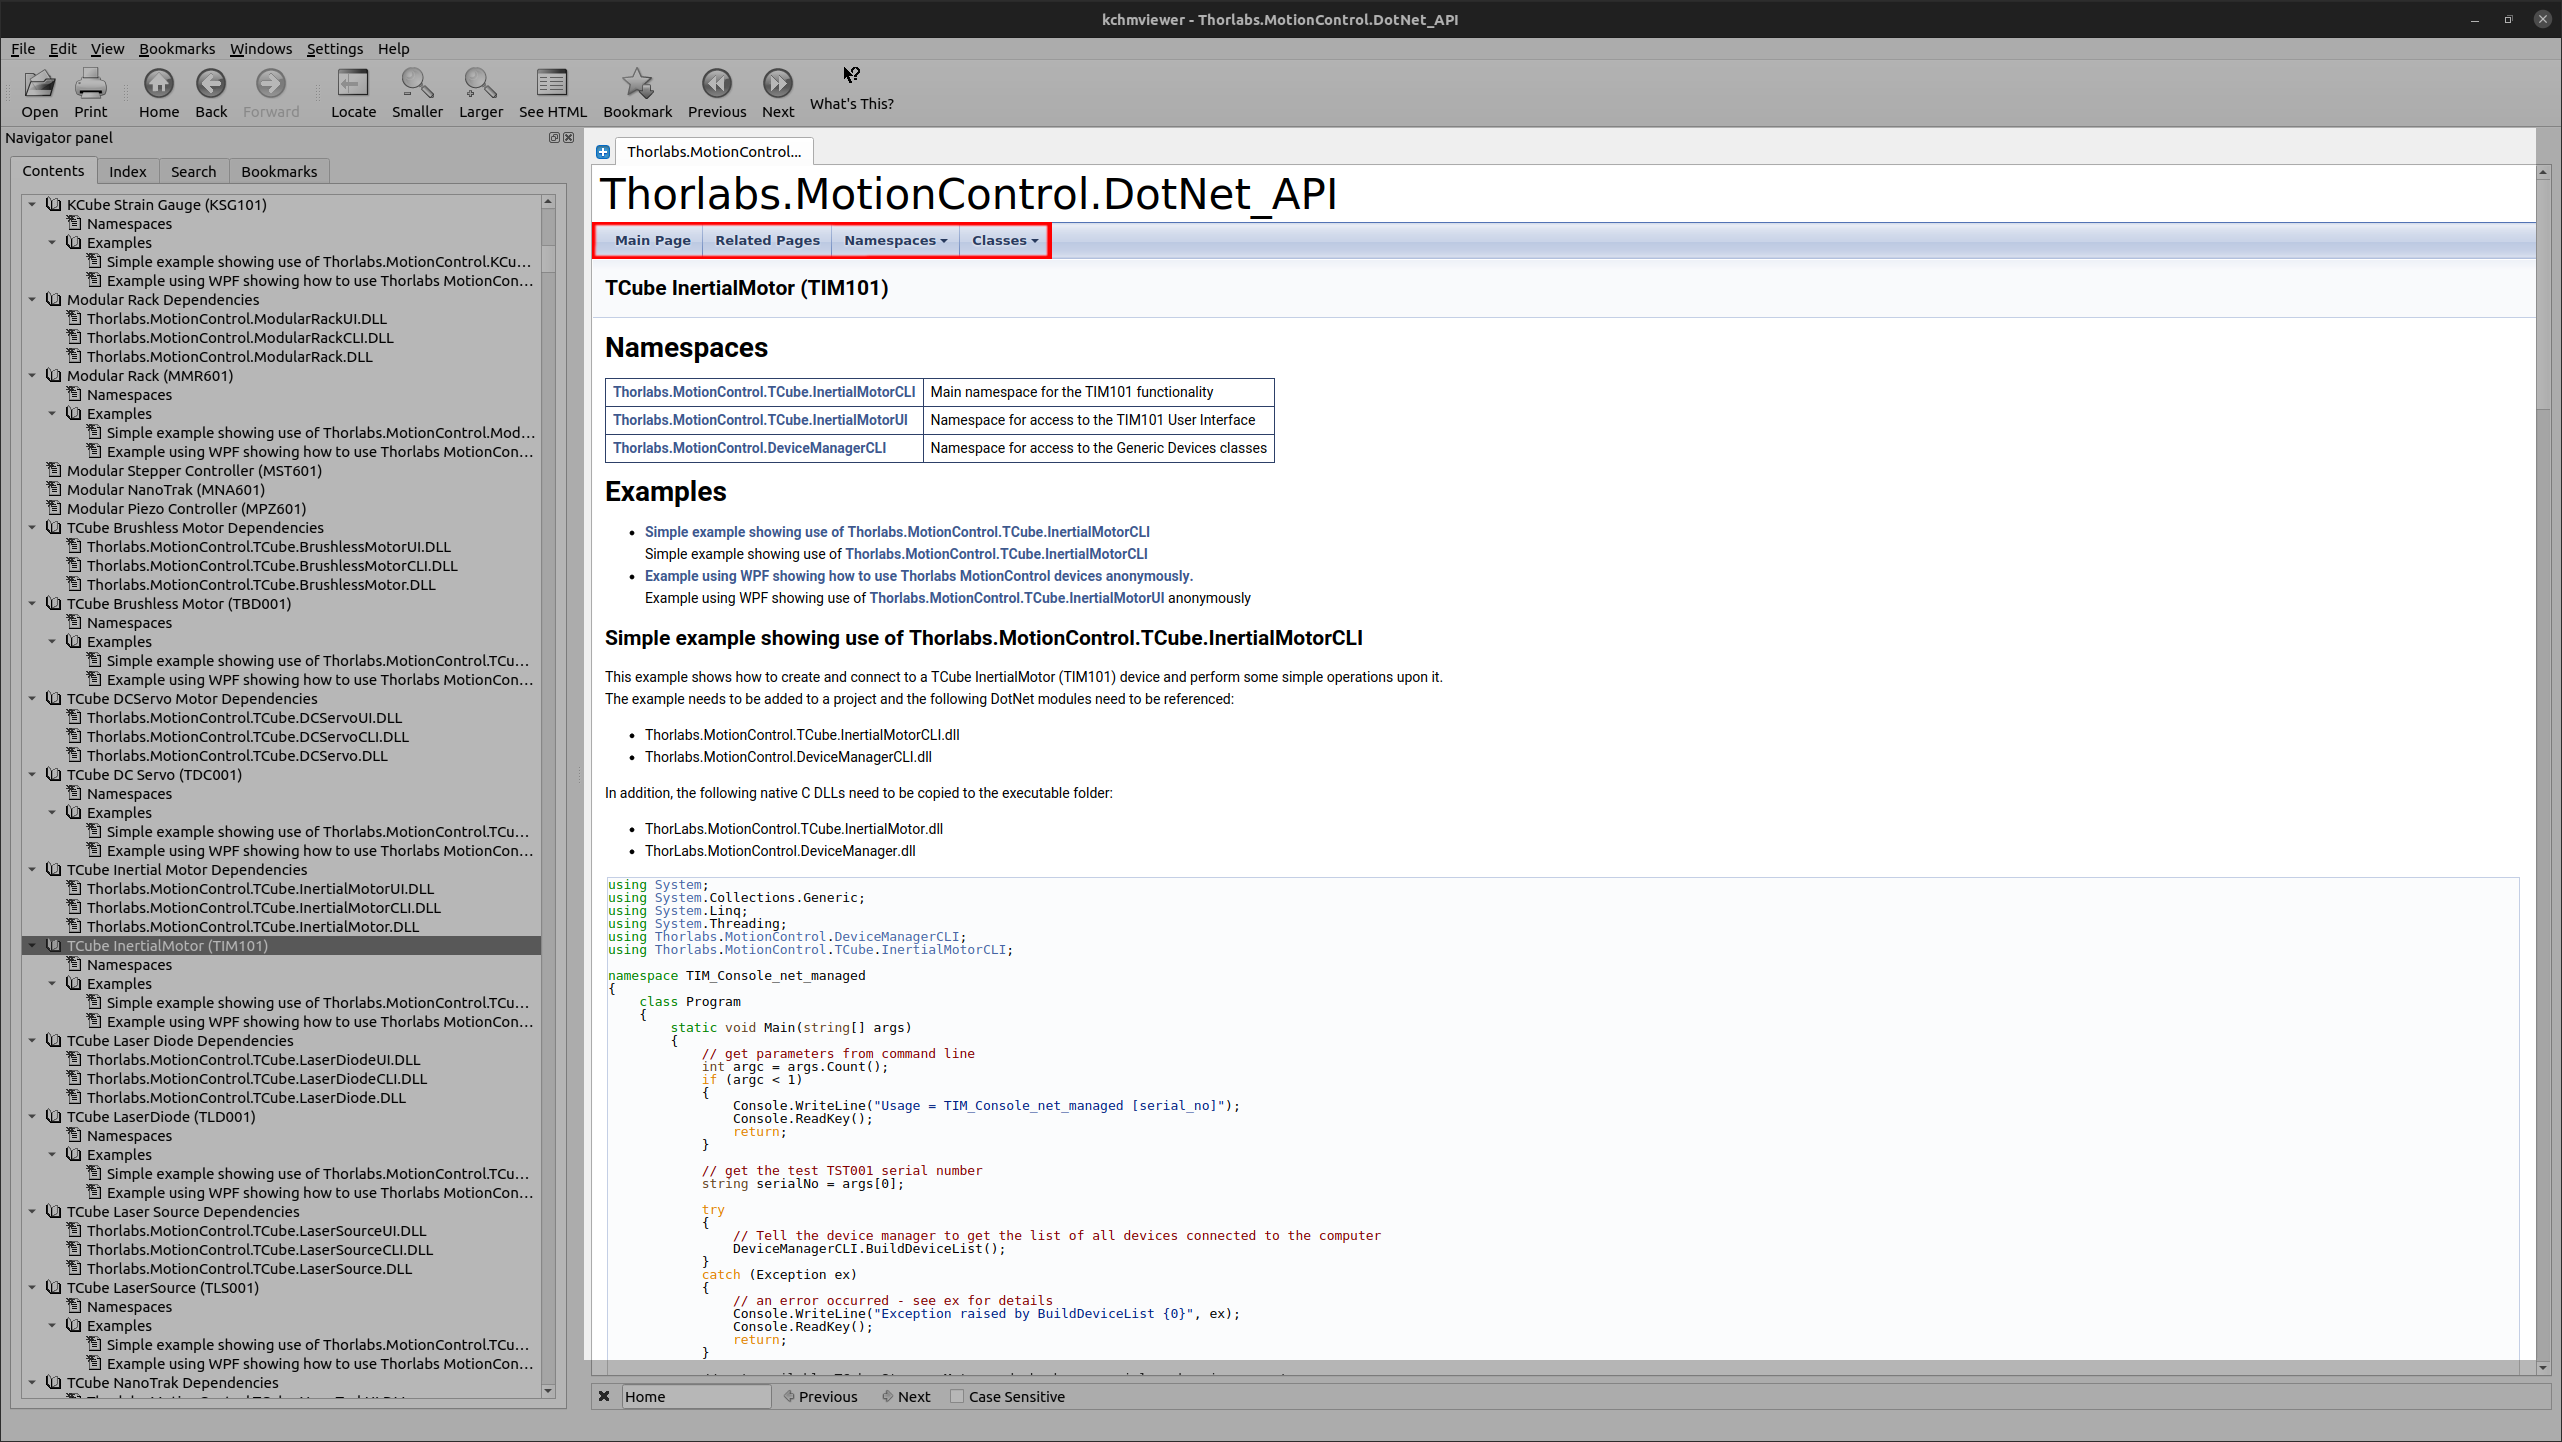
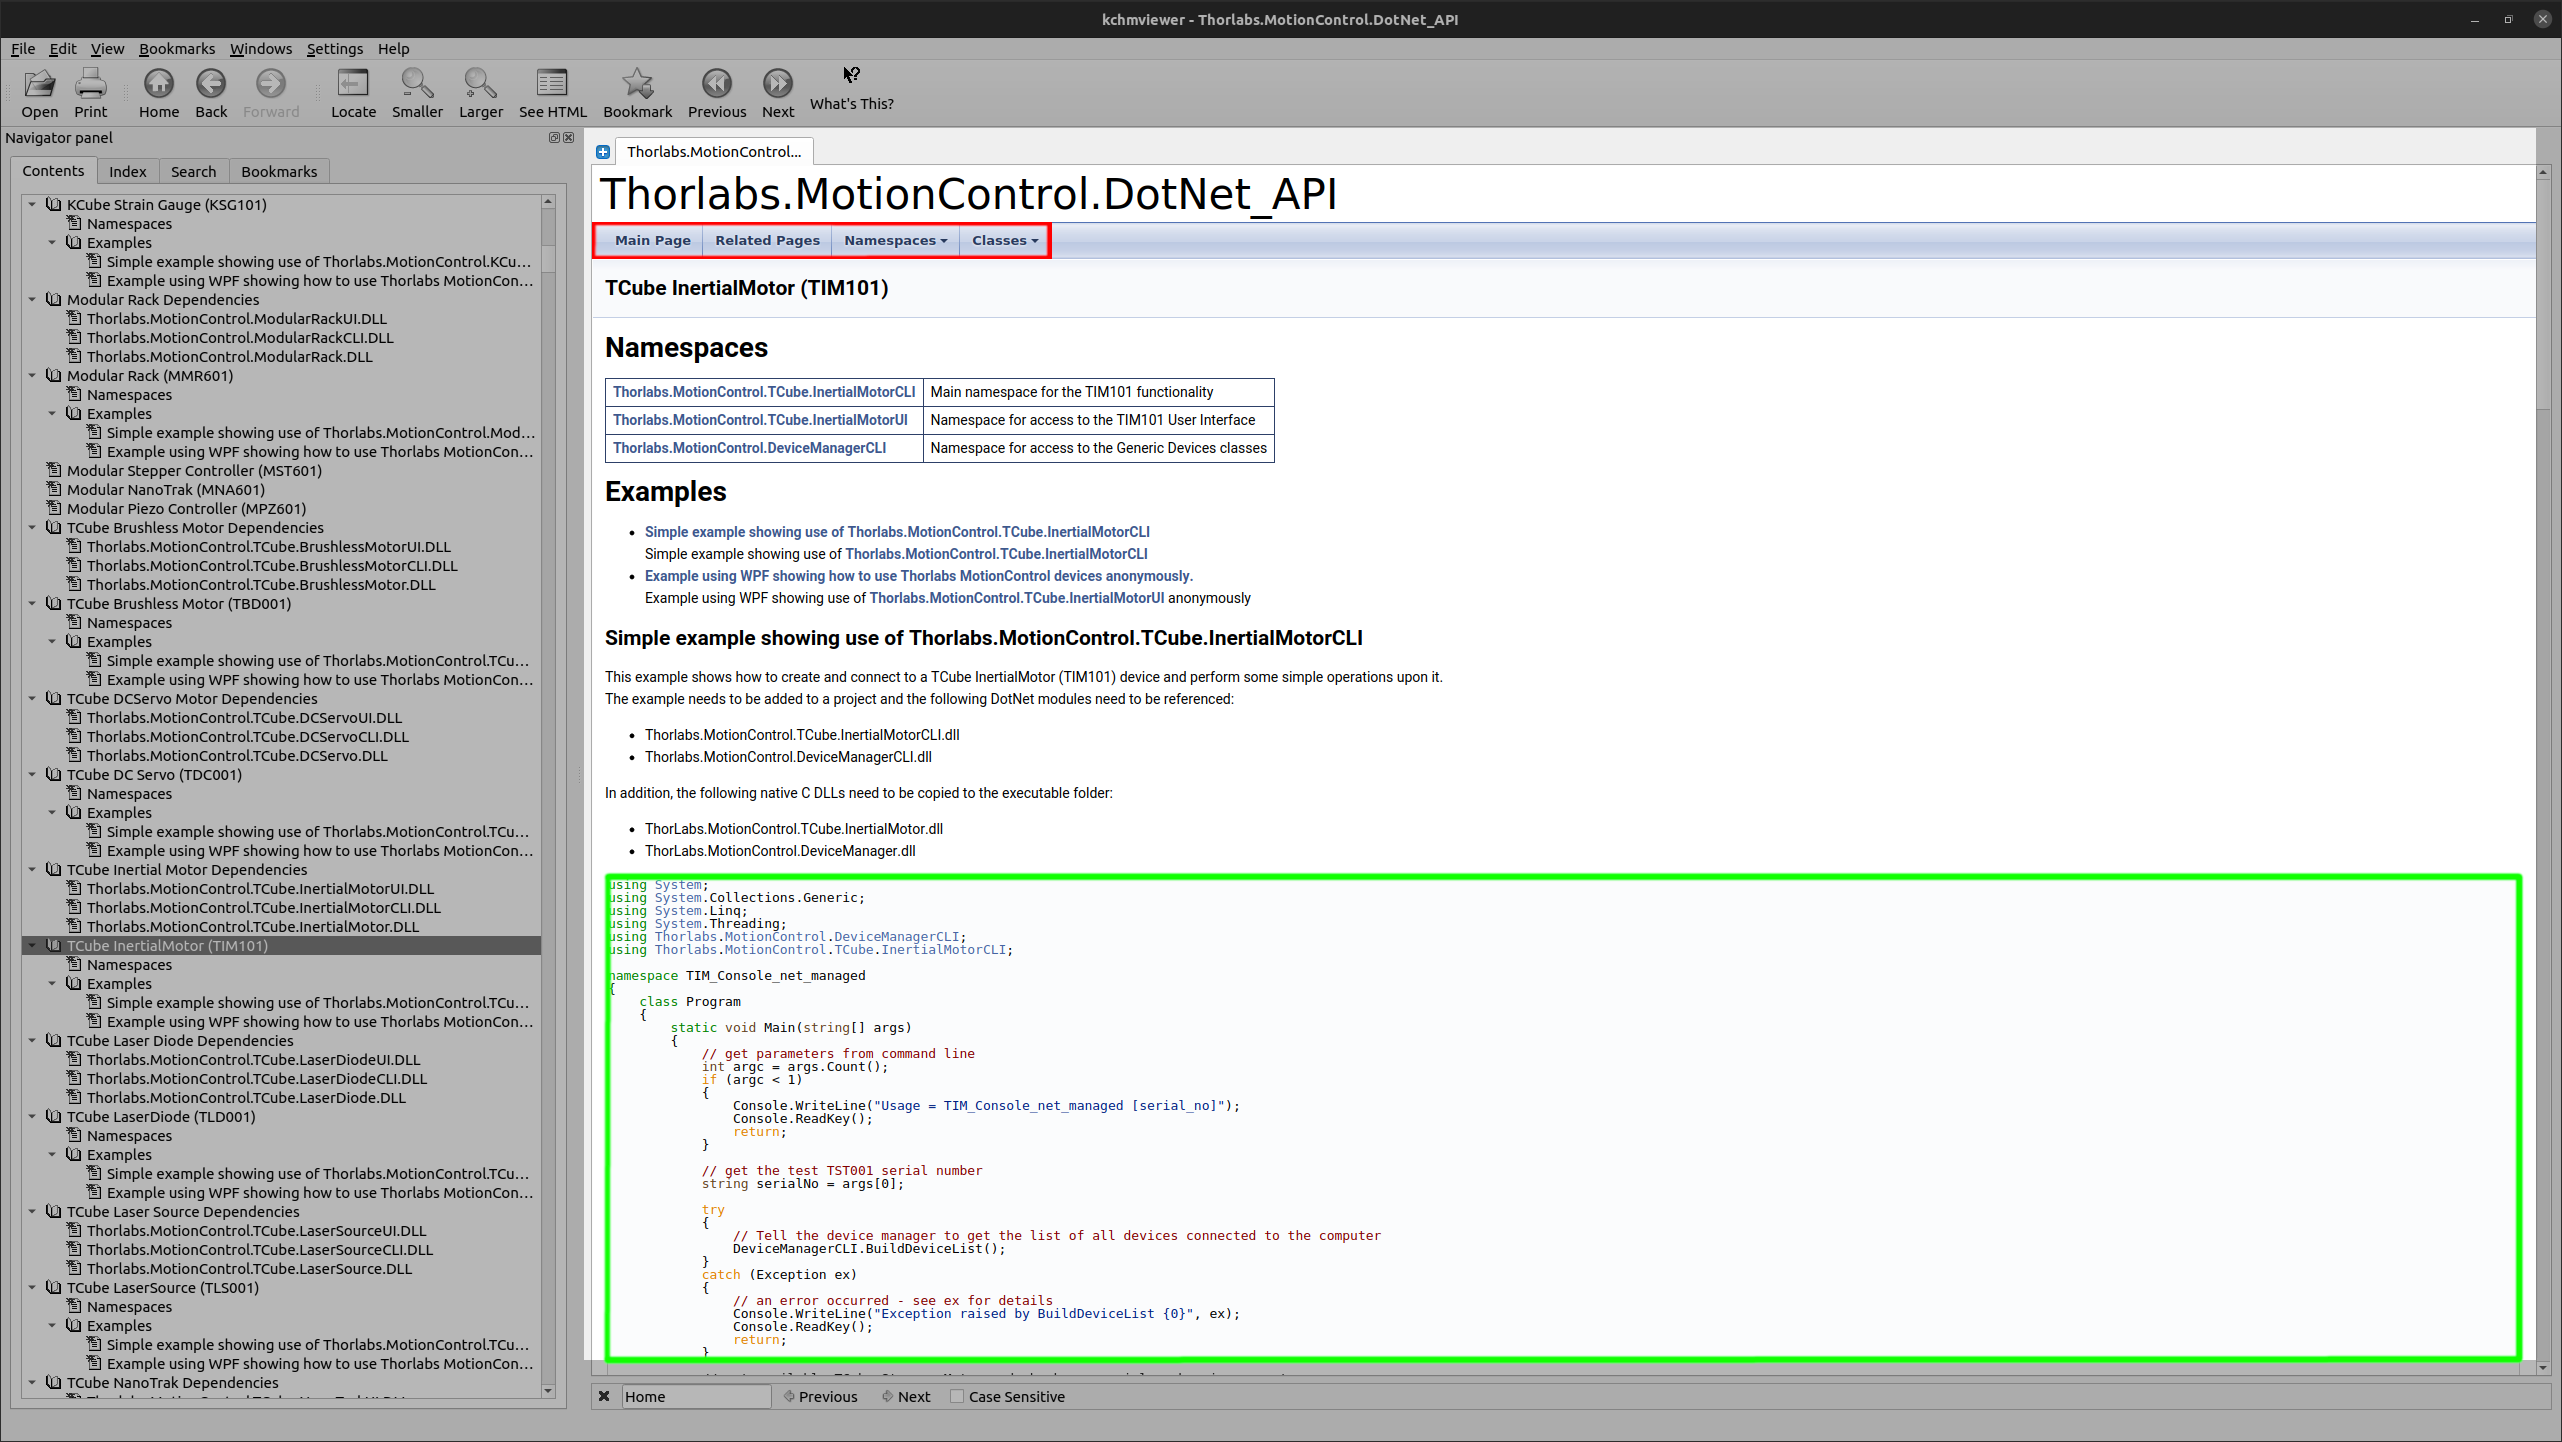
Doc

Changed region(s): [[0.2186, 0.5929, 0.9992, 0.9674], [0.2186, 0.6553, 0.2498, 0.7178]]

diff --git a/piezo.py b/piezo.py
@@ -33,8 +33,8 @@ clr.AddReference("Thorlabs.MotionControl.TCube.DCServoCLI")
 clr.AddReference("Thorlabs.MotionControl.IntegratedStepperMotorsCLI")
 clr.AddReference("Thorlabs.MotionControl.Controls")
 
-from System import String
-from System import Decimal
+from System import String, Decimal
+# from System import Decimal
 import System.Collections
 from System.Collections import *
 # Generic device manager
@@ -183,13 +183,13 @@ class K10CR1:
         :param float pos: Position
         :param float timeout: Timeout in ms to do the move
         :return: reached position
-        :rtype: float 
-        
+        :rtype: float
+
         """
         self.device.MoveTo(Decimal(pos), int(timeout))
         print(f"Device position is: { self.device.Position } °.")
         return self.device.Position
-        
+
     def get_position(self):
         """Returns the actual position
 
@@ -339,7 +339,7 @@ class TDC001:
         """
         self.device.MoveTo(Decimal(pos), int(timeout))
         print(f"Device position is: { self.device.Position } °.")
-        
+
     def get_position(self):
         """Returns the actual position
 
@@ -574,7 +574,7 @@ class BPC:
 class TIM101:
 
     def __init__(self, serial: str = None):
-        """Instantiates a PiezoTIM object to control piezo mirror screws
+        """Instantiates a TIM101 object to control piezo mirror screws
 
         :param str serial: Piezo serial number
         :return: PiezoScrew object

diff --git a/README.md b/README.md
@@ -1,10 +1,10 @@
 # Piezo
-**Python interface for Thorlabs piezo devices** 
+**Python interface for Thorlabs piezo devices**
 
 Introduction
 ===============================================
 
-This little library intends to map the Kinesis .NET API to python in order to control various Thorlabs piezos, motors etc ... The goal here is to bring the relevant Kinesis functions to practical high level classes. Each device has its own class, for instance a typical piezo actuated screw is controlled by a TCube controller, and corresponds to a Thorlabs TIM101 TCube Inertial Motor object. 
+This little library intends to map the Kinesis .NET API to python in order to control various Thorlabs piezos, motors etc ... The goal here is to bring the relevant Kinesis functions to practical high level classes. Each device has its own class, for instance a typical piezo actuated screw is controlled by a TCube controller, and corresponds to a Thorlabs TIM101 TCube Inertial Motor object.
 
 Communication through Kinesis
 ==========================
@@ -33,21 +33,139 @@ from Thorlabs.MotionControl.DeviceManagerCLI import *
 
 Once imported, all of the methods behave just like their .NET counterparts, but as Python objects. Function signatures are converted to the matching Python type by using the `System` types such as `String` or `Decimal`.
 
-Adding devices 
+Adding devices
 ==============
 
-Adding a new device to the library is a fairly straightforward operation. For this, one needs to take a look at the Kinesis .NET API documentation provided in the Kinesis folder. The first step is to find the Thorlabs model name of the device we wish to connect. This is easily done by opening the Kinesis app. Then, one needs to go in the documentation at the relevant chapter. 
+Adding a new device to the library is a fairly straightforward operation. For this, one needs to take a look at the Kinesis .NET API documentation provided in the Kinesis folder. The first step is to find the Thorlabs model name of the device we wish to connect. This is easily done by opening the Kinesis app. Then, one needs to go in the documentation at the relevant chapter.
 
-In the contents table on the [left pan](images/left_pane.png) of the compiled HTML viewer, you will find the list of all Thorlabs devices supported by the Kinesis API. 
+In the contents table on the [left pan](images/left_pane.png) of the compiled HTML viewer, you will find the list of all Thorlabs devices supported by the Kinesis API.
 
 ![left pan](images/left_pane.png)
 
-Let us look at the example of the TIM101. Opening the `TCube IntertialMotor` [tab](images/tim101.png), we can access the documentation of the whole class, with dependencies as well as subclasses and all related objects.  In red, the navigation tabs allow to access detailed documentation about all of the aforementioned objects.
+Let us look at the example of the TIM101. Opening the `TCube IntertialMotor` [tab](images/tim101.png), we can access the documentation of the whole class, with dependencies as well as subclasses and all related objects.  In **red**, the navigation tabs allow to access detailed documentation about all of the aforementioned objects.
 
 ![tab](images/tim101.png)
 
+Then, the shortest way to a working Python implementation is to simply copy the code example (in **green**) given on the device's main page. This code is very well commented and clear. As an example, here are a few lines with their translation in Python.
 
-Dependencies 
+**.NET**
+```java
+{
+    // Tell the device manager to get the list of all devices connected to the computer
+    DeviceManagerCLI.BuildDeviceList();
+}
+catch (Exception ex)
+{
+    // an error occurred - see ex for details
+    Console.WriteLine("Exception raised by BuildDeviceList {0}", ex);
+    Console.ReadKey();
+    return;
+}
+// get available TCube Inertial Motor and check our serial number is correct
+List<string> serialNumbers = DeviceManagerCLI.GetDeviceList(TCubeInertialMotor.DevicePrefix);
+if (!serialNumbers.Contains(serialNo))
+{
+    // the requested serial number is not a TSC001 or is not connected
+    Console.WriteLine("{0} is not a valid serial number", serialNo);
+    Console.ReadKey();
+    return;
+}
+
+```
+
+**Python**
+
+```python
+try:
+  # Tell the device manager to get the list of all devices connected to the computer
+  DeviceManagerCLI.BuildDeviceList()
+except Exception:
+  print(f"Exception raised by BuildDeviceList : {Exception}")
+# get available TCube Inertial Motor and check our serial number is correct
+serialNumbers = DeviceManagerCLI.GetDeviceList(TCubeInertialMotor.DevicePrefix)
+if serialNo is not in serialNumbers:
+  print(f"{serialNo} is not a valid serial number")
+```
+
+Then it is usually convenient to wrap this script in the following manner : the `__init__` method of each class should always buid the device list and do all of the error checking as to whether or not the device is available. Then it should initialize the configuration and settings of the device. For the TIM101 example, this gives the following example :
+
+```python
+class TIM101:
+  def __init__(self, serial: str = None):
+        """Instantiates a TIM101 object to control piezo mirror screws
+
+        :param str serial: Piezo serial number
+        :return: PiezoScrew object
+        :rtype: PiezoScrew
+
+        """
+        # availability checks
+        if serial is not None:
+            DeviceManagerCLI.BuildDeviceList()
+            device_list = DeviceManagerCLI.GetDeviceList(
+                TCubeInertialMotor.DevicePrefix)
+            if len(device_list) == 0 or serial not in device_list:
+                print("Error : ")
+            try:
+                self.serial = serial  # SN of the Thorlabs Nano stage
+                if len(device_list) == 0:
+                    print("Error : No TCube motor found !")
+                else:
+                    if serial in device_list:
+                        self.attempt_connection(serial)
+                    else:
+                        print("Error : Did not find the specified motor ")
+                        for dev in device_list:
+                            print(f"Device found, serial {dev}")
+            except Exception:
+                print("ERROR")
+                print(traceback.format_exc())
+        else:
+            try:
+                DeviceManagerCLI.BuildDeviceList()
+                device_list = DeviceManagerCLI.GetDeviceList(TCubeInertialMotor.DevicePrefix)
+                if len(device_list) == 0:
+                    print("Error : No TCube motor found !")
+                elif len(device_list) == 1:
+                    print("Only one device found, attempting to connect to " +
+                          f"device {device_list[0]}")
+                    self.attempt_connection(device_list[0])
+                else:
+                    for counter, dev in enumerate(device_list):
+                        print(f"Device found, serial {dev} ({counter})")
+                    choice = input("Choice (number between 0 and" +
+                                   f" {len(device_list)-1})? ")
+                    choice = int(choice)
+                    self.attempt_connection(device_list[choice])
+            except Exception:
+                print("ERROR")
+                print(traceback.format_exc())
+        # configuration initialization
+        self.configuration = self.device.GetInertialMotorConfiguration(self.serial)
+        self.settings = ThorlabsInertialMotorSettings.GetSettings(self.configuration)
+        self.channel1 = InertialMotorStatus.MotorChannels.Channel1
+        self.channel2 = InertialMotorStatus.MotorChannels.Channel2
+        self.channel3 = InertialMotorStatus.MotorChannels.Channel3
+        self.channel4 = InertialMotorStatus.MotorChannels.Channel4
+        # set default settings StepRate and StepAcceleration
+        self.settings.Drive.Channel(self.channel1).StepRate = 500
+        self.settings.Drive.Channel(self.channel1).StepAcceleration = 100000
+        self.settings.Drive.Channel(self.channel2).StepRate = 500
+        self.settings.Drive.Channel(self.channel2).StepAcceleration = 100000
+        self.settings.Drive.Channel(self.channel3).StepRate = 500
+        self.settings.Drive.Channel(self.channel3).StepAcceleration = 100000
+        self.settings.Drive.Channel(self.channel4).StepRate = 500
+        self.settings.Drive.Channel(self.channel4).StepAcceleration = 100000
+        self.device.SetSettings(self.settings, True, True)
+        self.zero()
+```
+
+The connection in itself is handled by a separate method `attempt_connection` as the connection procedure differs from device to device. This allows to keep an almost identical `__init__` method for all devices. Also, keeping a separate `attempt_connection` method allows for easier debugging since it decouples logical bugs (mostly user error) from actual connectivity errors.
+
+Finally, depending on the device, one can then wrap the relevant "move", "home" or "zero" methods (see the examples in [`piezo.py`](piezo.py))
+
+
+Dependencies
 ============
 * Pythonnet : Mapping of the .NET functions to Python. **WARNING** Pythonnet provides the `clr` module. If you attempt to `pip install` it you will end up with the `color` module which will be nice, but not what is needed here.
 * For Unix systems : `mono` which is the open implementation of .NET. It can be installed directly through apt : `sudo apt install mono-complete`
